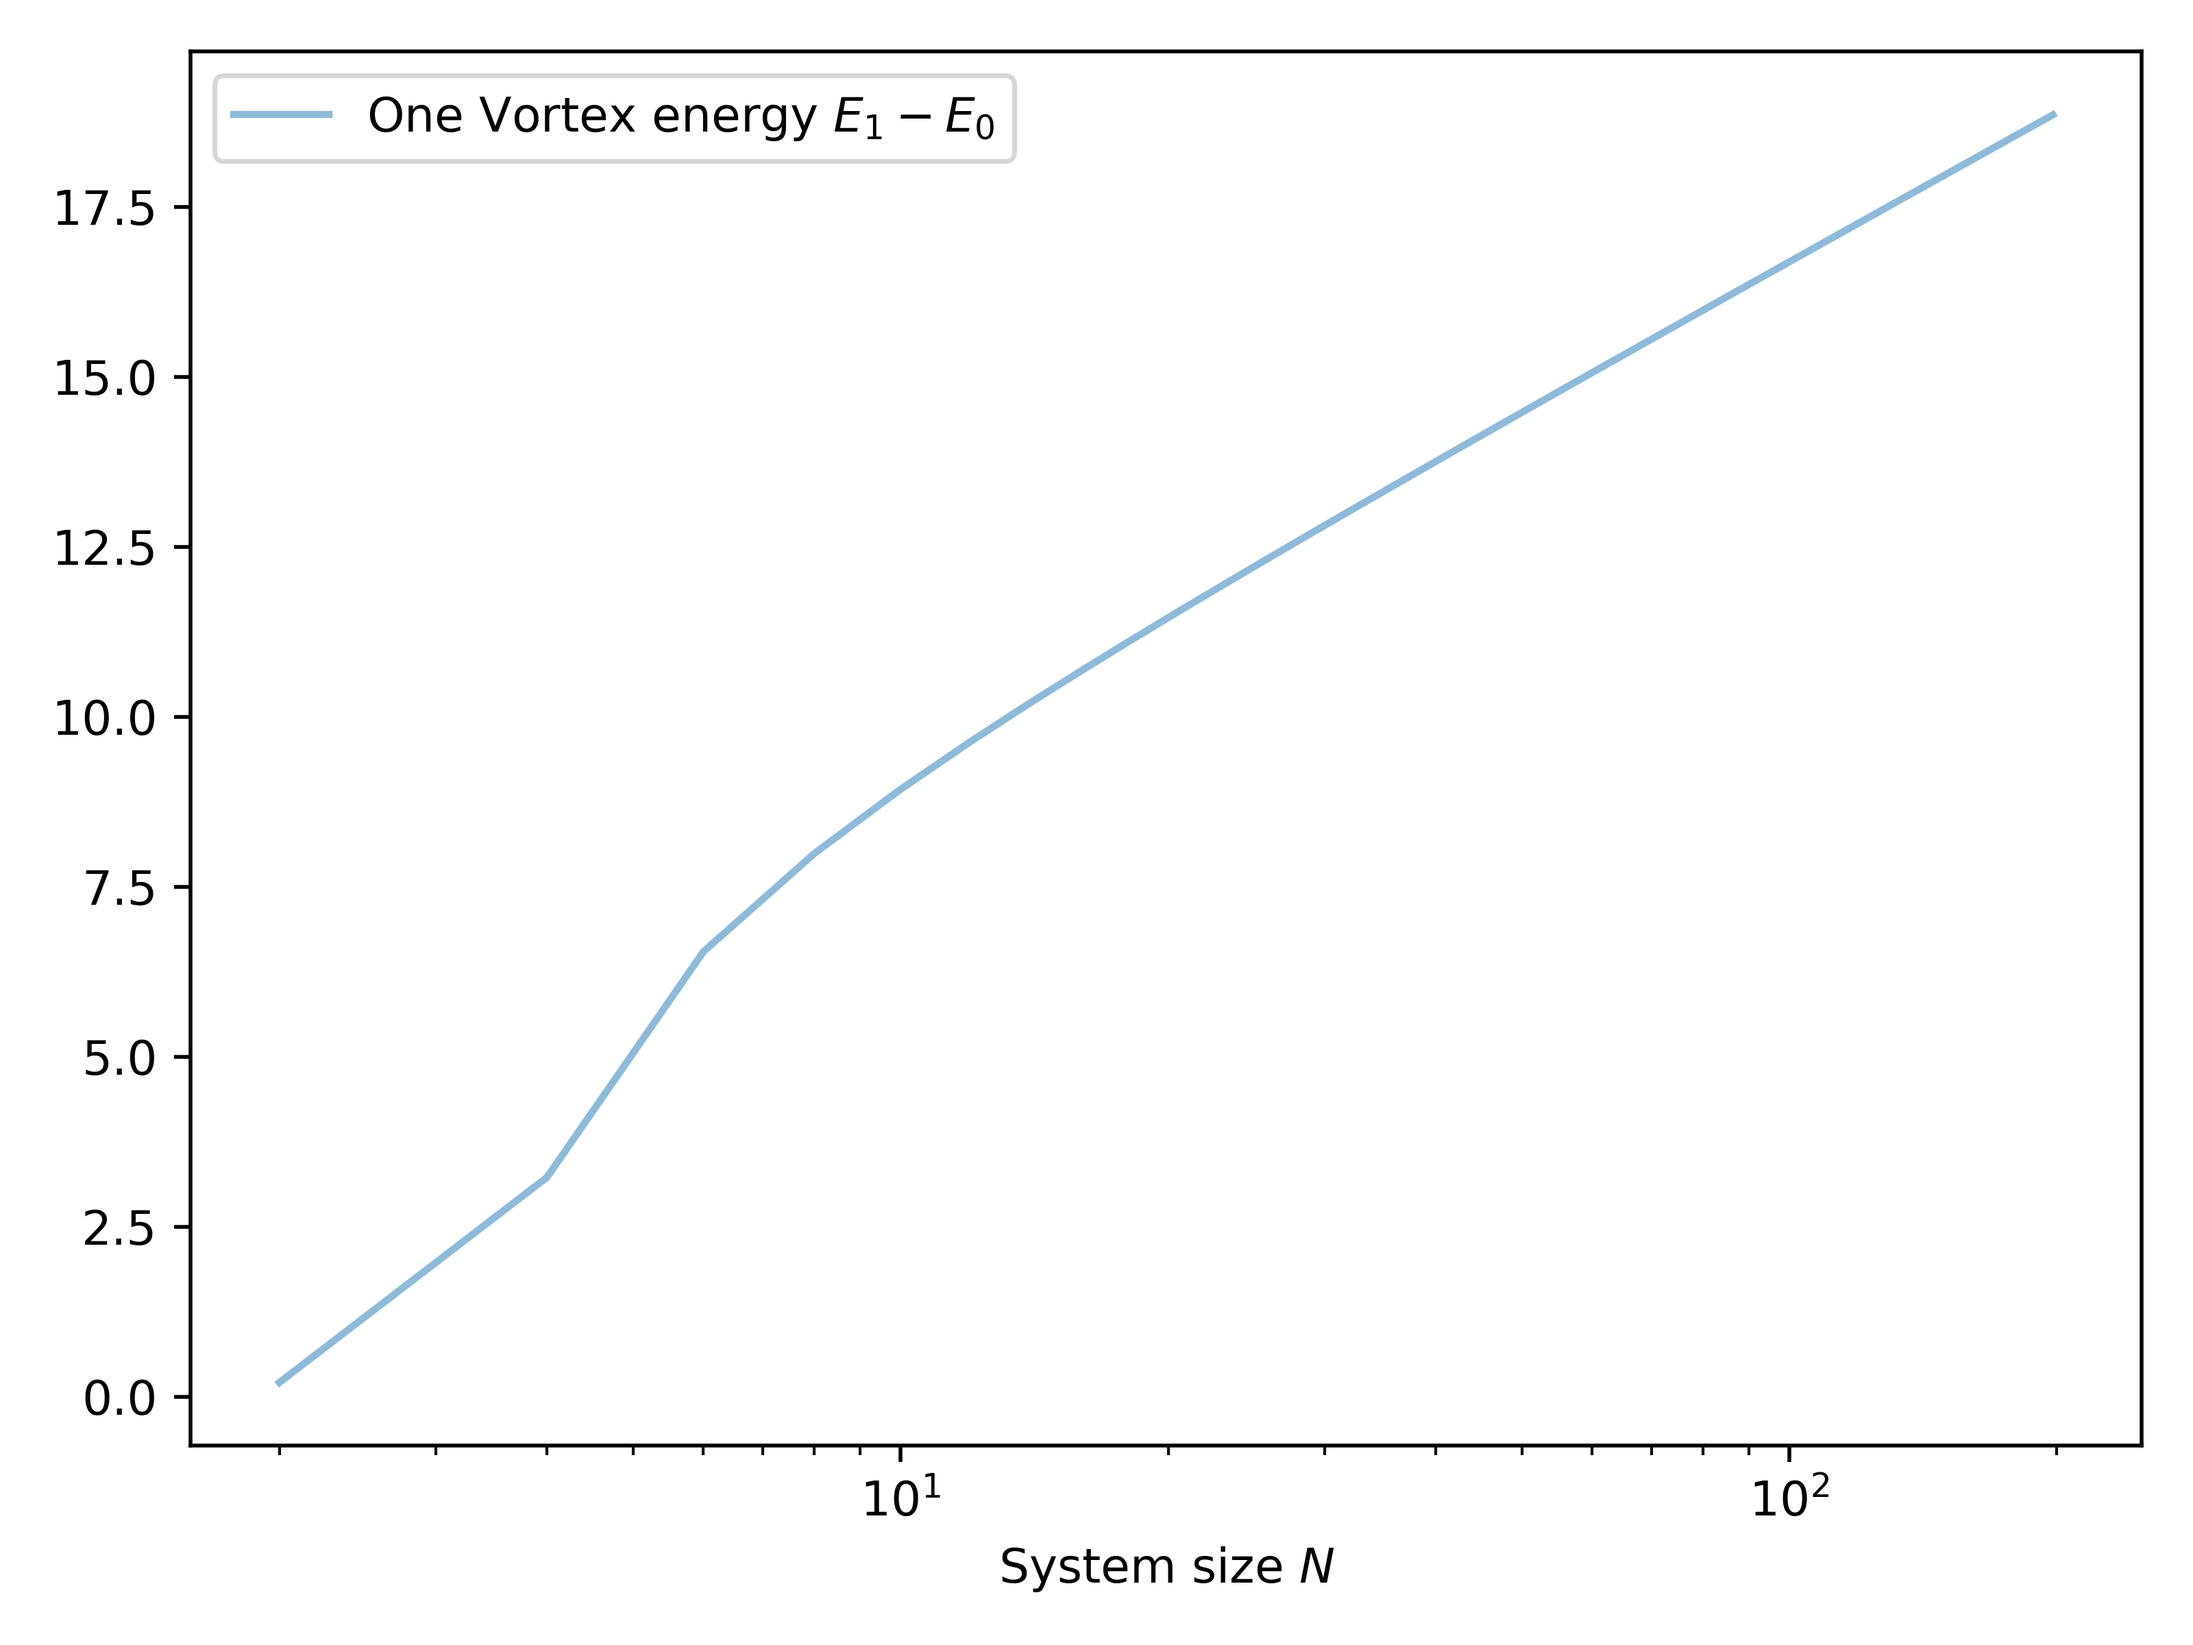
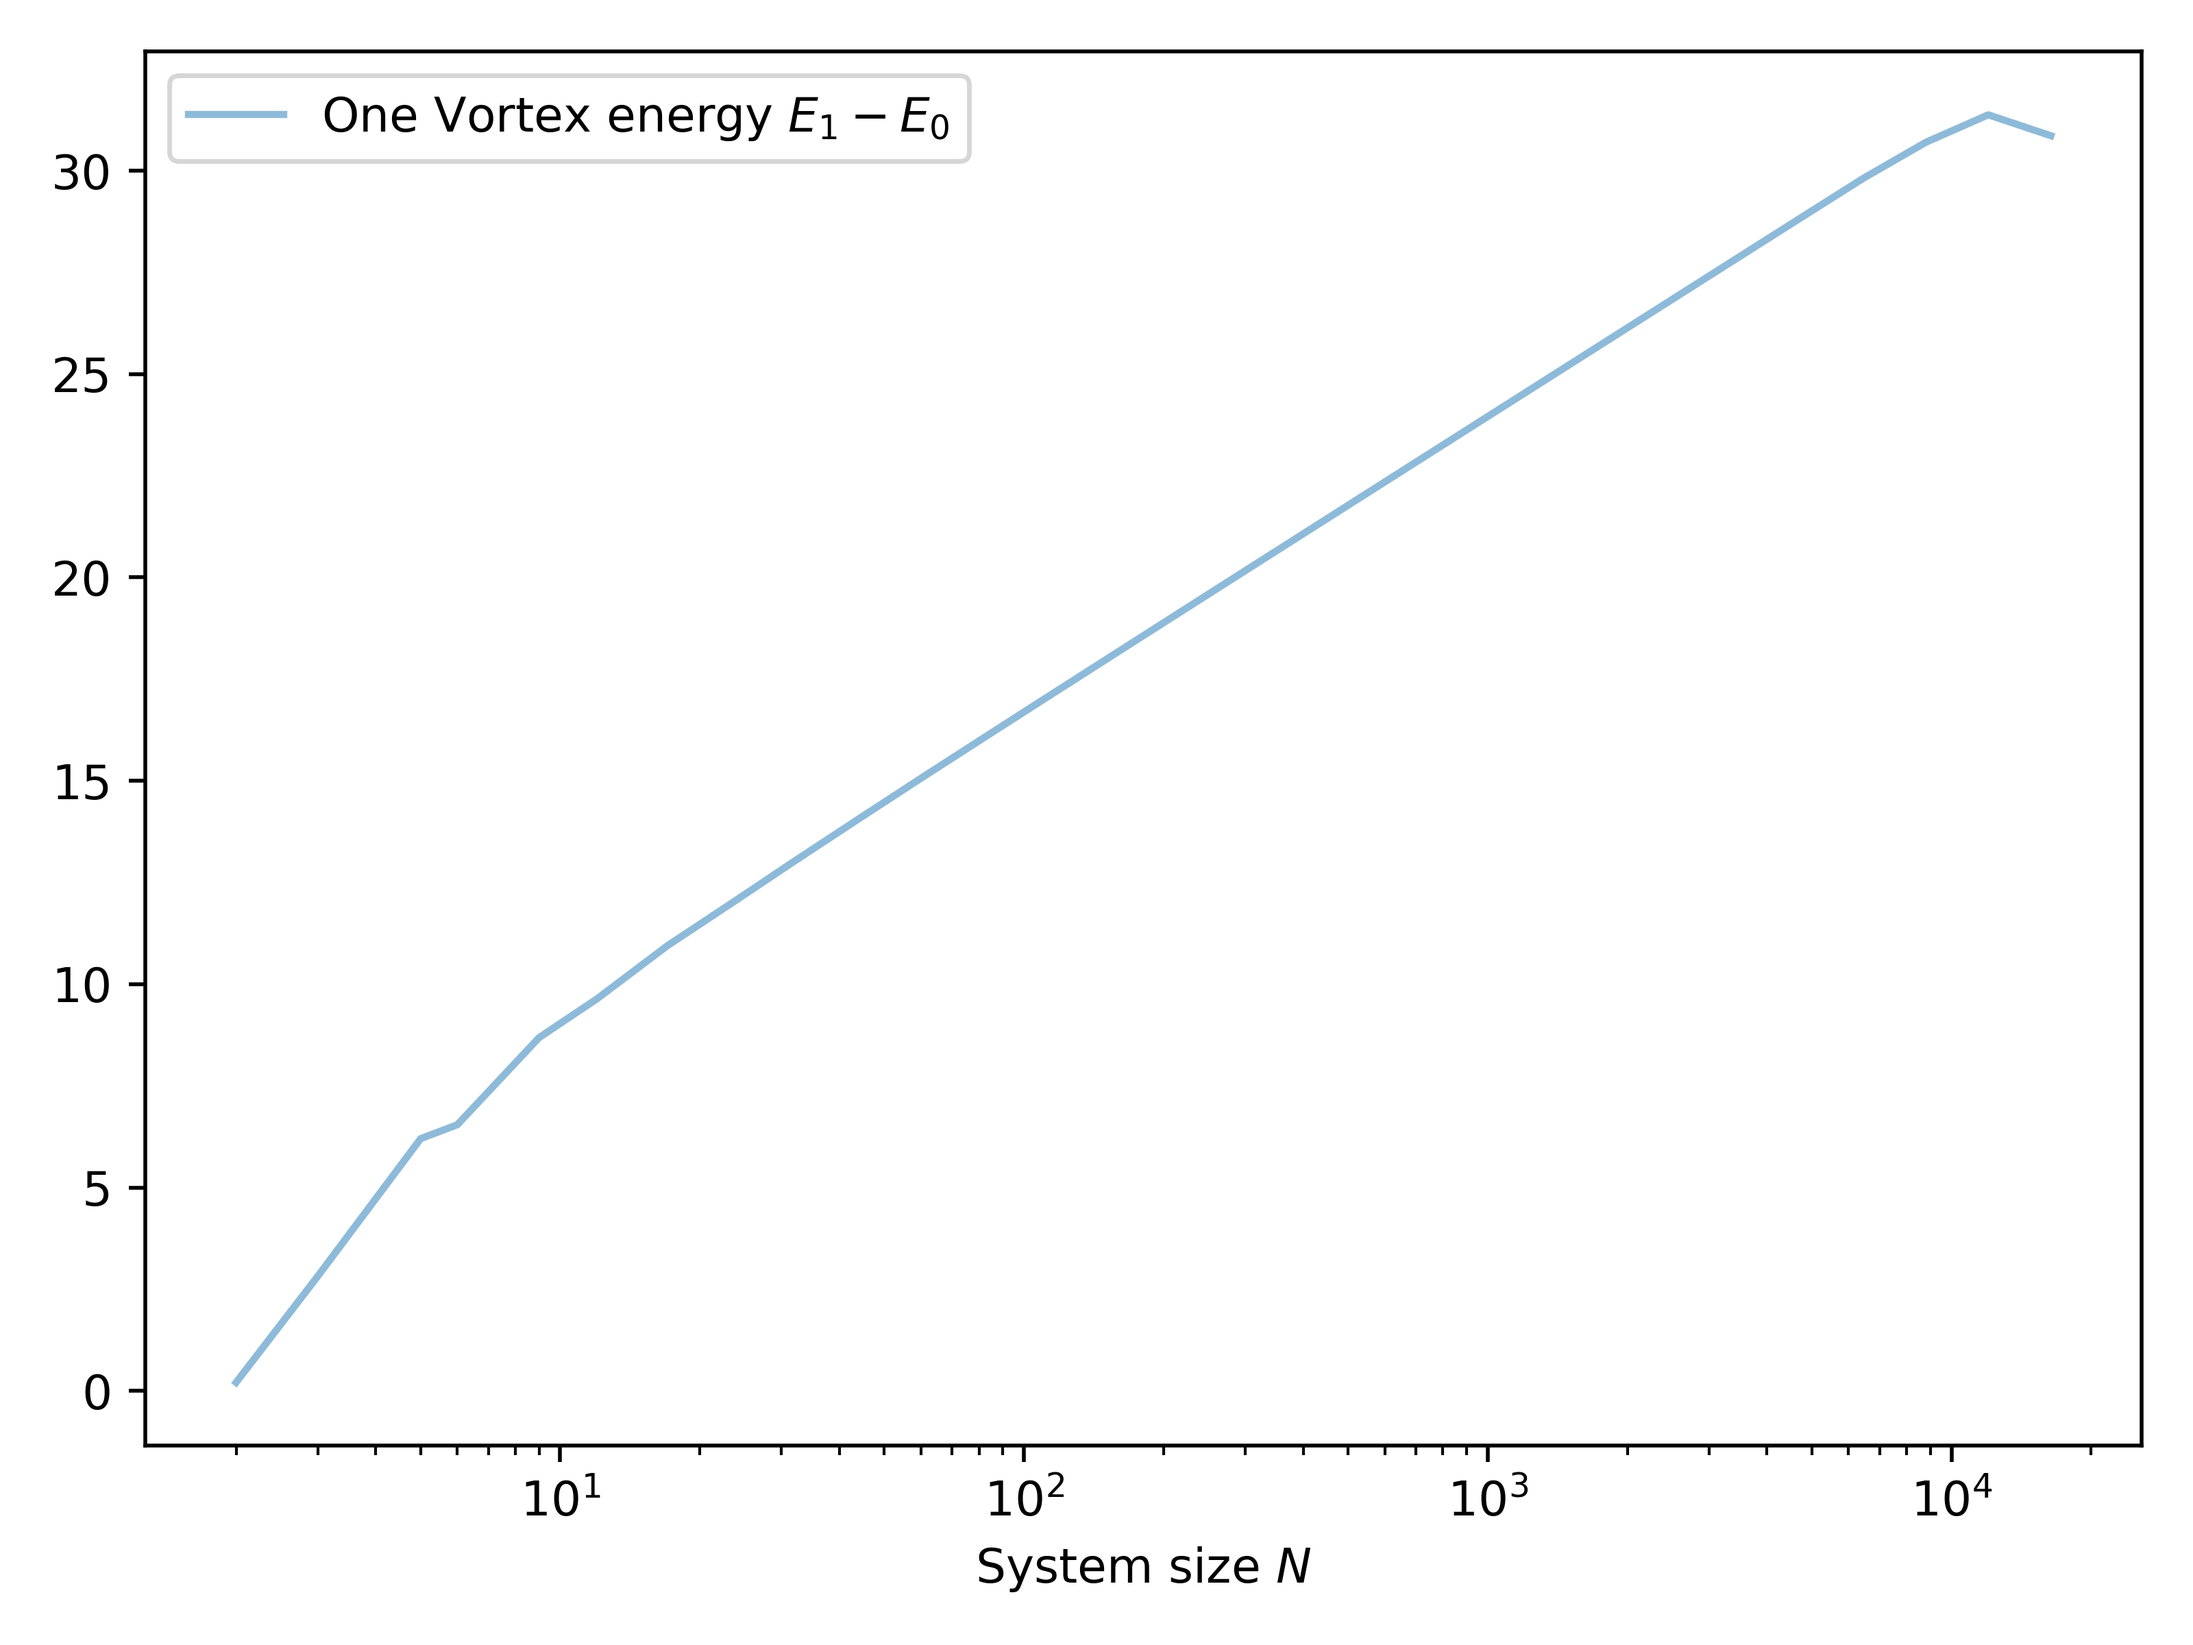
large system size

diff --git a/problem_set_5/energy_vs_system_size.py b/problem_set_5/energy_vs_system_size.py
@@ -3,14 +3,14 @@ import numpy as np
 import math
 from xy_model import XYmodel
 
-system_sizes = np.arange(2, 200, 2)
+system_sizes = np.logspace(1, 14, 30, base=2, dtype=int)
 energies = []
 
 for run, n in enumerate(system_sizes):
     model = XYmodel(n)
     model.place_vortex(math.floor(n/2) + .5, math.floor(n/2) + .5, 1)
     energies.append(model.compute_energy() - model.energy0)
-    if run % 50 == 0:
+    if run % 5 == 0:
         print(f"{run} / {len(system_sizes)}")
 
 fig, ax = plt.subplots(dpi=500)
